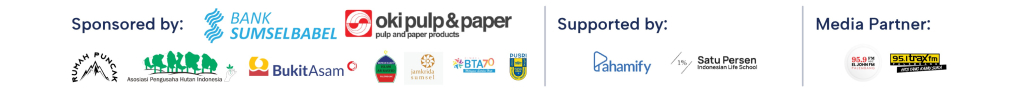
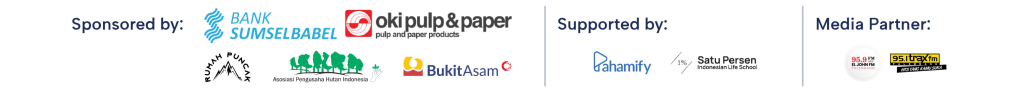
sponsor

Changed region(s): [[0.0625, 0.5258, 0.5312, 0.866]]

diff --git a/src/views/components/AccountLayout.jsx b/src/views/components/AccountLayout.jsx
@@ -2,6 +2,10 @@ import React from "react";
 import logo from "../../assets/images/logo.png";
 import logo2 from "../../assets/images/logo2.png";
 import ikagamas from "../../assets/images/ikagamass.png";
+
+import sp1 from "../../assets/images/sp1.jpg";
+import sp2 from "../../assets/images/sp2.jpg";
+
 import { useHistory } from "react-router-dom";
 
 import { IoChevronBack } from "react-icons/io5";
@@ -66,12 +70,12 @@ function AccountLayout({ children }) {
 
         {/* footer */}
         <div
-          className="sm:hidden"
+          className=""
           style={{
             backgroundColor: "#11645B",
           }}
         >
-          <div className="flex justify-center py-4 gap-x-1">
+          <div className="flex justify-center py-4 gap-x-1 sm:hidden">
             <div className="w-16 h-12 ">
               <img src={logo2} alt="" className="object-contain " />
             </div>
@@ -81,8 +85,19 @@ function AccountLayout({ children }) {
             </div>
           </div>
 
+          {/* Sponsor */}
+          <div className="flex flex-wrap justify-center h-auto gap-1 py-4 bg-white lg:hidden ">
+            <div className="">
+              <img src={sp1} alt="" className="object-contain " />
+            </div>
+
+            <div className="">
+              <img src={sp2} alt="" className="object-contain " />
+            </div>
+          </div>
+
           <div
-            className="py-4 text-xs text-center text-white"
+            className="py-4 text-xs text-center text-white sm:hidden"
             style={{ background: "#00295D" }}
           >
             <p>presented by</p>

diff --git a/src/views/badut/HomeLayout.jsx b/src/views/badut/HomeLayout.jsx
@@ -5,6 +5,9 @@ import ikagamas from "../../assets/images/ikagamass.png";
 
 import { IoChevronForward } from "react-icons/io5";
 
+import sp1 from "../../assets/images/sp1.jpg";
+import sp2 from "../../assets/images/sp2.jpg";
+
 import "../../assets/styles/_tryout.css";
 import { Link } from "react-router-dom";
 
@@ -30,12 +33,12 @@ function HomeLayout({ children }) {
       <div id="back and footer">
         {/* footer */}
         <div
-          className="sm:hidden"
+          className=""
           style={{
             backgroundColor: "#11645B",
           }}
         >
-          <div className="flex justify-center py-4 gap-x-1">
+          <div className="flex justify-center py-4 gap-x-1 sm:hidden">
             <div className="w-16 h-12 ">
               <img src={logo2} alt="" className="object-contain " />
             </div>
@@ -45,8 +48,20 @@ function HomeLayout({ children }) {
             </div>
           </div>
 
+          <div className="sm:mt-4 ">
+            <div className="flex flex-wrap justify-center h-auto gap-1 py-4 bg-white lg:hidden ">
+              <div className="">
+                <img src={sp1} alt="" className="object-contain " />
+              </div>
+
+              <div className="">
+                <img src={sp2} alt="" className="object-contain " />
+              </div>
+            </div>
+          </div>
+
           <div
-            className="py-4 text-xs text-center text-white"
+            className="py-4 text-xs text-center text-white sm:hidden"
             style={{ background: "#00295D" }}
           >
             <p>presented by</p>

diff --git a/src/views/badut/MobileHome.jsx b/src/views/badut/MobileHome.jsx
@@ -10,6 +10,9 @@ import { useHistory } from "react-router-dom";
 import { IoChevronForward } from "react-icons/io5";
 import PageNotReady from "views/components/modal/PageNotReady";
 
+import sp1 from "../../assets/images/sp1.jpg";
+import sp2 from "../../assets/images/sp2.jpg";
+
 function MobileHome() {
   const history = useHistory();
 
